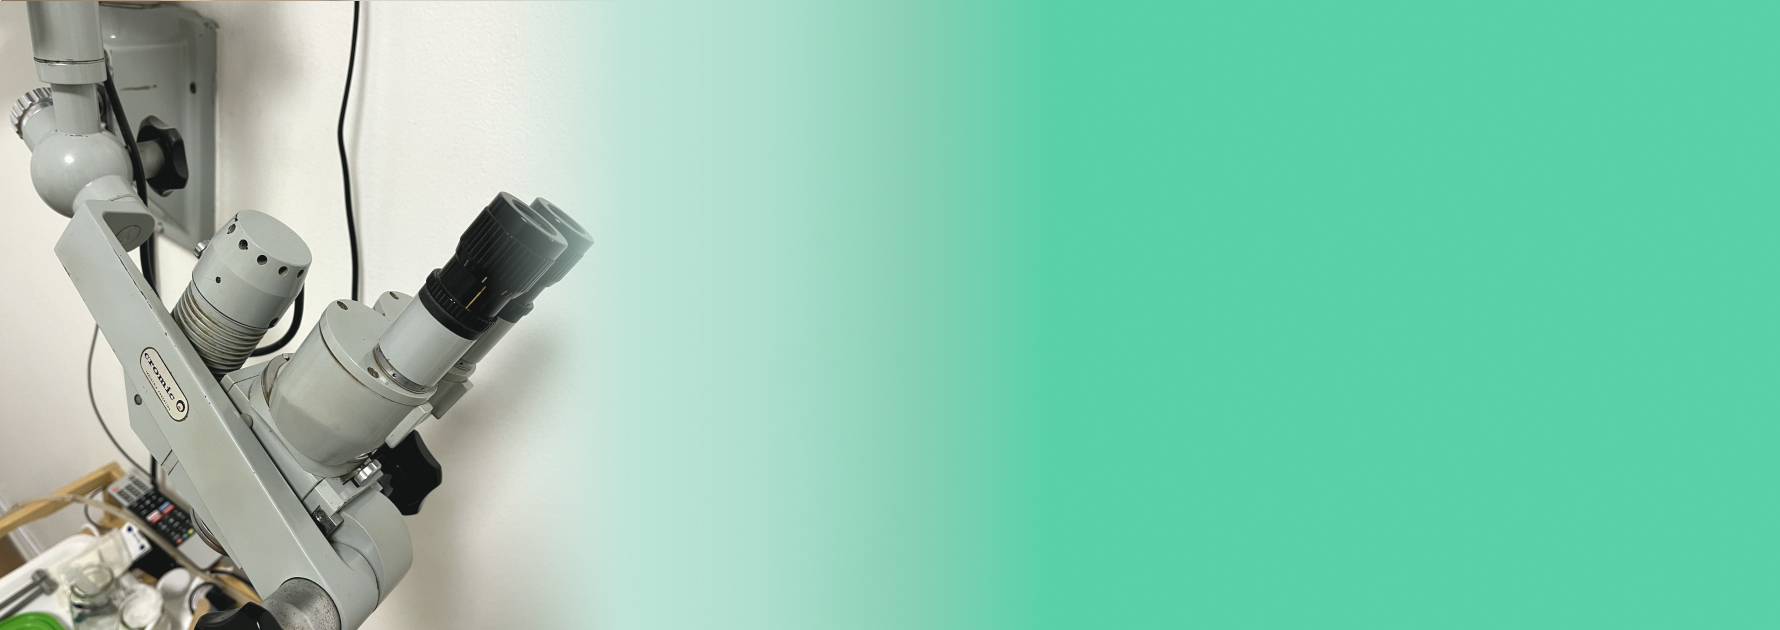
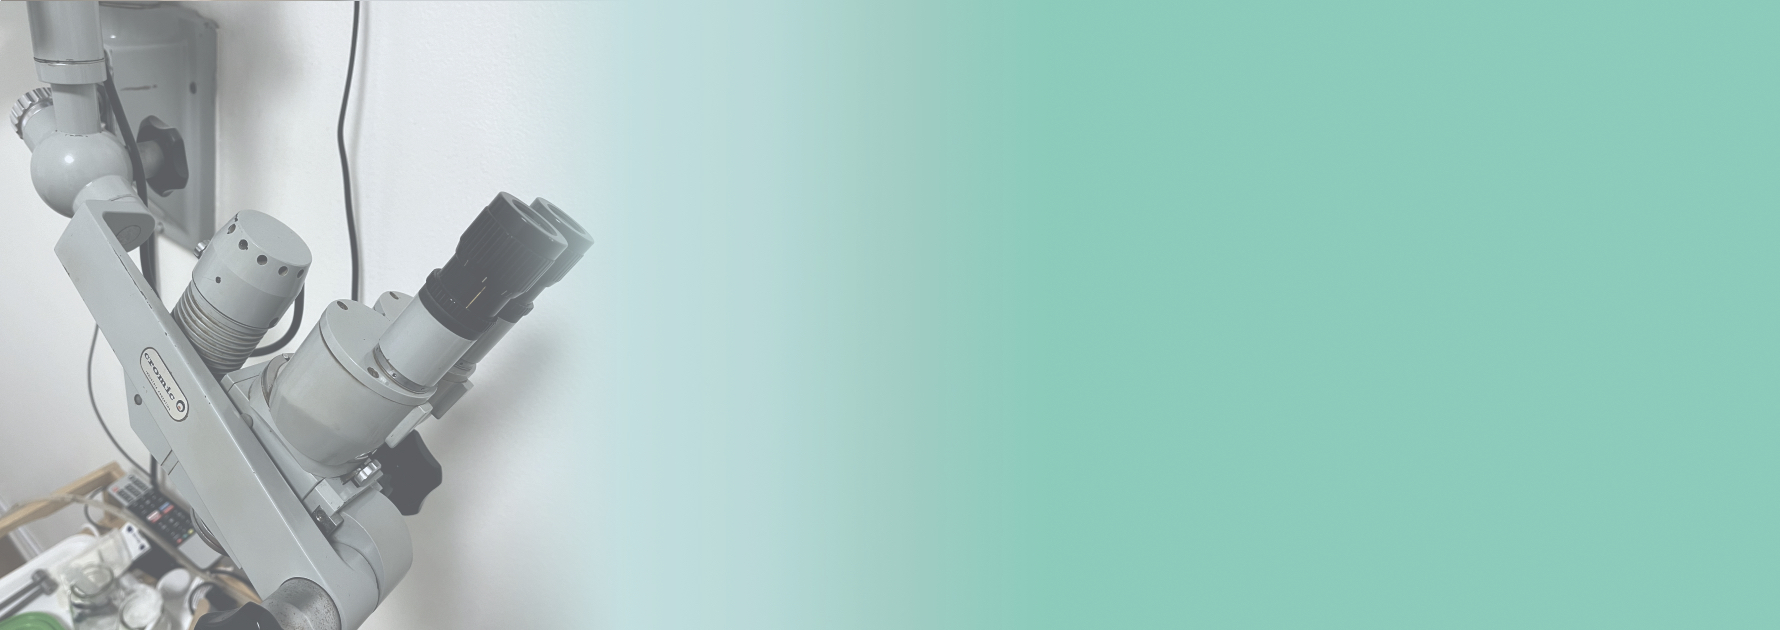
fifth commit

diff --git a/index.html b/index.html
@@ -16,11 +16,12 @@
     <link
     href="https://fonts.googleapis.com/css2?family=Poppins:ital,wght@0,200;0,300;0,400;0,500;1,100&display=swap"
     rel="stylesheet"
-  />
+     />
     <link
     rel="stylesheet"
     href="https://unpkg.com/swiper/swiper-bundle.min.css"
     />
+    <link rel="stylesheet" href="https://cdnjs.cloudflare.com/ajax/libs/font-awesome/4.7.0/css/font-awesome.min.css">
     <style type="text/css" media="screen, print">
         @font-face {
             font-family: "Bauhaus 93";
@@ -75,7 +76,7 @@
             </a>
           
 
-            <nav class="text__nav--home">        
+            <nav class="text__nav--home" id="menuDropdown">        
               
                  <div>           
                     <a href="#main" class="link__color--Scroll" >Home</a>
@@ -91,31 +92,25 @@
                 <div> 
                     <a href="#contact" class="link__color--Scroll">Contacto</a>    
                 </div> 
+               
             </nav>
-       
-         <!--   <div class="menu" id="menuResponsive">
-                <ul class="active">
-                    <li class="current-item"><a href="#main" class="link__color--Scroll" >Home</a></li>
-                    <li> <a href="#nosotros" class="link__color--Scroll">Nosotros</a></li>
-                    <li><a href="#work" class="link__color--Scroll">Estudios y Cirujias</a></li>
-                    <li><a href="#contact" class="link__color--Scroll">Contacto</a>   </li>
-                </ul>
+            <a class="menuResponsive" id="menu">&#9776;</a>
             
-                <a class="toggle-nav" href="#">&#9776;</a>
-            </div>-->
+            
+
             
         </header>
         
             <div class="whatsApp">
-                <a  title="WhatsApp, Public domain, via Wikimedia Commons" target="_blank" href="https://wa.me/1123906123/?text=Escribenos%20para%20consultas"><img  alt="WhatsApp" src="https://upload.wikimedia.org/wikipedia/commons/thumb/6/6b/WhatsApp.svg/512px-WhatsApp.svg.png"></a>
+                <a  title="WhatsApp, Public domain, via Wikimedia Commons" target="_blank" href="https://wa.me/1151074885/?text=Escribenos%20para%20consultas"><img  alt="WhatsApp" src="https://upload.wikimedia.org/wikipedia/commons/thumb/6/6b/WhatsApp.svg/512px-WhatsApp.svg.png"></a>
             </div>
             <section class="main link_color" id="Home">
                <!--  <div class="container__img">
                    
                    <img class="main--img" src="img/CONSULTORIO/home.jpg">
                  </div> -->
-               <!--   <div class="container__text"> -->
-               <!--  <div class="container__text--center ">-->
+           <div class="container__text"> 
+             <div class="container__text--center ">
                     <svg width="380" height="207" viewBox="0 0 280 107" fill="none" xmlns="http://www.w3.org/2000/svg">
                         <path d="M35.1542 65C22.1679 64.8976 12.0394 59.9645 5.12799 49.3651C-3.3705 36.345 -1.10781 20.5808 10.4469 9.4692C20.8971 -0.574862 38.1622 -3.02253 51.052 4.02934C62.1242 10.1054 68.6978 19.4216 68.9927 32.3608C69.2876 45.3 60.5961 57.6031 48.3979 62.4176C45.9789 63.4021 43.4625 64.125 40.8914 64.5741C38.8646 64.8922 36.7789 64.8814 35.1542 65Z" fill="#307172"/>
                         <path d="M136.077 47.9807C136.077 43.2247 136.149 38.4686 136.044 33.718C135.999 31.7895 136.759 30.9614 138.656 31.0213C140.082 31.0649 141.507 31.0921 142.932 31.1739C143.393 31.1739 144.164 31.2447 144.264 31.4844C145.251 33.9959 146.709 32.514 148.146 32.0728C150.886 31.2447 153.759 31.1521 156.604 31.0595C159.699 30.9614 162.794 31.0104 165.889 31.0268C167.059 31.0268 168.279 30.8688 168.595 32.5631C168.812 33.7126 169.705 33.0534 170.259 32.7864C171.888 31.9738 173.663 31.4815 175.484 31.3373C176.388 31.2883 177.702 30.7271 177.946 32.3288C178.135 33.5219 177.869 34.4481 176.454 34.824C175.628 35.0959 174.844 35.4791 174.125 35.9626C170.481 38.169 168.551 41.4105 168.495 45.6054C168.423 51.2167 168.407 56.8281 168.495 62.4394C168.523 64.368 167.852 65 165.883 65C159.821 65 159.815 65.0653 159.815 59.0999C159.815 51.6961 159.766 44.2924 159.871 36.8887C159.904 34.9329 159.161 34.3173 157.297 34.2519C155.691 34.1727 154.084 34.4126 152.574 34.9573C151.064 35.502 149.681 36.3403 148.508 37.4221C147.335 38.5039 146.396 39.8069 145.748 41.2533C145.1 42.6996 144.755 44.2595 144.735 45.8396C144.657 51.3747 144.657 56.9098 144.735 62.4449C144.774 64.3952 144.069 65.0217 142.106 64.9836C134.679 64.842 136.166 65.3813 136.049 58.9909C135.977 55.3299 136.049 51.6635 136.049 48.0025L136.077 47.9807Z" fill="#307172"/>
@@ -143,11 +138,11 @@
                         <path d="M104.535 98.9966C102.096 99.0527 101.633 98.4359 102.242 95.8119C102.563 94.427 102.921 93.059 103.247 91.6797C103.328 91.3713 103.413 91.0517 103.75 91.0069C104.213 90.9452 104.344 91.3096 104.444 91.7077C104.917 93.5411 105.45 95.3578 105.848 97.208C106.205 98.7555 105.998 98.9573 104.535 98.9966Z" fill="#89D0B6"/>
                         <path d="M187.897 20C188.603 21.0949 190.125 21.686 189.992 23.3258C189.83 25.3151 188.638 26.7955 186.572 26.9857C184.651 27.1656 182.388 25.6235 182.035 23.9015C181.734 22.4057 183.407 20.4832 185.42 20.1285C186.239 20.0329 187.065 19.9917 187.891 20.0051L187.897 20Z" fill="#307172"/>
                     </svg>
-                    <!--          
-                    <h3>Lorem ipsum dolor sit amet consectetur adipisicing elit. Velit, consequuntur sapiente odit reprehenderit error dignissimos commodi necessitatibus tenetur iste eos obcaecati, a quaerat distinctio, omnis aspernatur quisquam delectus vel repellendus.</h3>
-                    -->    
-               <!--  </div>    -->      
-              <!--    </div>    -->       
+                            
+                    <h3>Somos un centro médico especializado donde nuestro objetivo es brindar una atención de excelencia, con una amplia opción de turnos a cargo de especialistas altamente capacitados y de experiencia.</h3>
+                       
+              </div>         
+            </div>         
             </section>
         <a name="about" id="nosotros"></a>
             <section class="about" id="Nosotros">
@@ -509,7 +504,7 @@
                                     </svg>
                                     
                             </div>                 
-                            <p>Reconstruccion de perforacion ........</p>
+                            <p>Reconstruccion de perforacion timpanica</p>
                         </div>                                
                     </div>
                 </div>
@@ -569,7 +564,7 @@
                                 
                                 <div class="text__nav--texto">
                                     <p>Whatsapp</p>
-                                    <p>+(123) 555-0104-891 <br> +(123) 555-0104-891</p>
+                                    <p>11 5107-4885</p>
                                 </div>
                                 
                             </div>  
@@ -581,7 +576,7 @@
                                 
                                         <div class="text__nav--texto">
                                             <p>Turnos</p>
-                                            <p>Mon-Fri: 9:00AM-10:00PM <br> Sat-Sun: 9:00AM-01:00PM1</p>      
+                                            <p>perezalisedogambiniorl@gmail.com</p>      
                                         </div>
                                 
                                 </div>  
@@ -593,7 +588,7 @@
                                 </svg>
                             
                                     <div class="text__nav--texto">
-                                        <p>Tambien atendermos en Zarate  <br> Direccion y Whatsapp</p>
+                                        <p>Tambien atendemos en Zarate  <br> .Bolivar 1084 Bis <br> .3487 66-2444</p>
                                     </div>
                                 
                             </div> 
@@ -616,7 +611,7 @@
                         <path d="M19.9202 24.3842C19.005 24.3842 18.0603 24.1776 17.0714 23.7495C16.1414 23.351 15.2115 22.8196 14.3111 22.1554C13.4254 21.5059 12.5546 20.7678 11.7576 19.9708C10.9605 19.1589 10.2224 18.3028 9.57289 17.4171C8.90865 16.4872 8.37726 15.572 7.99348 14.6716C7.58017 13.6974 7.37354 12.7379 7.37354 11.8228C7.37354 11.1733 7.49159 10.5533 7.713 9.97767C7.94918 9.37247 8.33297 8.82631 8.83484 8.35396C9.77954 7.42403 11.1376 7.08456 12.2151 7.60119C12.5842 7.76356 12.8941 8.02925 13.1304 8.38351L14.8425 10.7895C15.0196 11.0257 15.1526 11.2766 15.2559 11.5275C15.374 11.8228 15.4478 12.118 15.4478 12.3985C15.4478 12.7822 15.3443 13.166 15.1377 13.5055C15.0048 13.7269 14.813 13.9926 14.562 14.2436L14.3701 14.4502C14.4587 14.5683 14.562 14.7159 14.7244 14.893C15.0344 15.2473 15.3739 15.6311 15.7429 16.0001C16.1119 16.3544 16.4809 16.7086 16.85 17.0186C17.0271 17.1662 17.1748 17.2843 17.2929 17.3581L17.4994 17.1514C17.7651 16.8857 18.031 16.6791 18.2967 16.5462C18.7838 16.2363 19.5364 16.1625 20.2007 16.4429C20.4368 16.5315 20.673 16.6643 20.9239 16.8415L23.3892 18.5832C23.7286 18.8194 23.9942 19.1442 24.1713 19.5132C24.3189 19.8822 24.3781 20.2069 24.3781 20.5464C24.3781 20.9893 24.2747 21.4173 24.0828 21.8306C23.8909 22.2144 23.6695 22.5539 23.4038 22.8639C22.9314 23.3805 22.3854 23.7643 21.795 24.0152C21.2045 24.2662 20.5697 24.3842 19.9202 24.3842ZM11.1375 9.59387C11.049 9.59387 10.7538 9.59387 10.3848 9.96289C10.1043 10.2286 9.91241 10.5091 9.77957 10.8191C9.64672 11.129 9.58766 11.4833 9.58766 11.8376C9.58766 12.4575 9.73526 13.1217 10.0305 13.8302C10.3404 14.5683 10.7981 15.3506 11.359 16.1329C11.9347 16.9153 12.5841 17.6976 13.3075 18.4209C14.0308 19.1294 14.7982 19.7936 15.5953 20.3841C16.3628 20.945 17.1453 21.3878 17.9276 21.7273C19.0495 22.2144 20.0826 22.3325 20.9239 21.9782C21.2192 21.8601 21.4849 21.6535 21.7505 21.3878C21.8834 21.2402 21.9869 21.0926 22.0754 20.9007C22.1197 20.7974 22.1491 20.6793 22.1491 20.576C22.1491 20.5464 22.1491 20.5021 22.1048 20.4136L19.6398 18.7013C19.5364 18.6275 19.4331 18.5685 19.3445 18.539C19.2855 18.5685 19.1971 18.6128 19.0347 18.7751L18.4738 19.336C18.0457 19.7641 17.3667 19.8822 16.8206 19.6903L16.5549 19.5722C16.2154 19.3951 15.8315 19.1294 15.4034 18.7604C14.9901 18.4061 14.5917 18.0371 14.1636 17.6238C13.7503 17.1957 13.3813 16.7972 13.027 16.3839C12.6432 15.9263 12.3775 15.5573 12.2004 15.2473L12.038 14.8635C11.9937 14.7159 11.9789 14.5535 11.9789 14.4059C11.9789 13.9926 12.1266 13.6236 12.407 13.3284L12.968 12.7527C13.1304 12.5903 13.1894 12.5018 13.2189 12.4427C13.1746 12.3394 13.1156 12.2508 13.0418 12.1475L11.3147 9.71199L11.1375 9.59387Z" fill="white"/>
                     </svg>
                     <div class="footer__nav--texto">
-                        <p>healthcare@medical.com <br> healthcare@medical.com</p>
+                        <p>+(54) 9 11 5107-4885</p>
                     </div>       
                 </div> 
                 <div class="footer__nav">
@@ -624,7 +619,7 @@
                         <path d="M16.5 2.75C8.91825 2.75 2.75 8.91825 2.75 16.5C2.75 24.0817 8.91825 30.25 16.5 30.25C24.0817 30.25 30.25 24.0817 30.25 16.5C30.25 8.91825 24.0817 2.75 16.5 2.75ZM21.0279 22.9721L15.125 17.0692V8.25H17.875V15.9307L22.9721 21.0279L21.0279 22.9721Z" fill="white"/>
                     </svg>
                     <div class="footer__nav--texto">
-                        <p>healthcare@medical.com <br> healthcare@medical.com</p>
+                        <p>Lunes-Viernes: 8:00AM-8:00PM</p>
                     </div>       
                 </div> 
                 <div class="footer__nav">
@@ -632,7 +627,7 @@
                         <path d="M20.8333 4.1665H4.16659C3.02075 4.1665 2.09367 5.104 2.09367 6.24984L2.08325 18.7498C2.08325 19.8957 3.02075 20.8332 4.16659 20.8332H20.8333C21.9791 20.8332 22.9166 19.8957 22.9166 18.7498V6.24984C22.9166 5.104 21.9791 4.1665 20.8333 4.1665ZM20.8333 8.33317L12.4999 13.5415L4.16659 8.33317V6.24984L12.4999 11.4582L20.8333 6.24984V8.33317Z" fill="white"/>
                     </svg>
                     <div class="footer__nav--texto">
-                        <p>healthcare@medical.com <br> healthcare@medical.com</p>
+                        <p>perezalisedogambiniorl@gmail.com</p>
                     </div>       
                 </div> 
             </div>

diff --git a/style2.css b/style2.css
@@ -33,6 +33,7 @@ a{
     position: sticky;
     top: 85vh;
     left: 90vw;
+    z-index: 100;
 }
 
 
@@ -136,6 +137,9 @@ nav a{
     display: none;
 }
 
+.menuResponsive{
+    display: none;
+}
 
 /*------------------Main---------------------------*/
 
@@ -176,22 +180,23 @@ nav a{
 
 .container__text--center{
    
-   /* display: flex;
+    display: flex;
     flex-direction: column;
     justify-content: center;
-    align-items: center;*/
+    align-items: center;
     
 }
 
 .container__text--center h3{
-  /*  margin-bottom: 30%;
+    margin-bottom: 30%;
+    transform: translateX(24vw);
     margin-top: 5vh;
     max-width: 30rem;
     text-align: center;
     font-family: 'Roboto';
     color: white;
     font-size:  .9rem;
-    line-height: 1.8rem;*/
+    line-height: 1.8rem;
 }
 
 
@@ -736,25 +741,65 @@ footer {
         margin-right: 0rem;
     }
     
-    .text__nav--home{
-        display: flex;
+    /*.text__nav--home{
+        display: none;
         width: 40vw;
         flex-direction: column;
         margin: 1vw;
         font-size: 3vw;
         margin-right: 0vw;
+    }*/
+
+    .text__nav--home{
+        display: none;
     }
 
+     .text__nav--home.active{
+        display: inline;
+        position: absolute;
+        width: max-content;
+        flex-direction: column;
+        margin: 0vw;
+        font-size: 5vw;
+        margin-top: 24vh;
+        margin-left: 25vw;
+        animation-name: dropDown;
+        animation-timing-function: ease-in;
+        animation-duration: .5s;
+        background-color: #58D0A7;
+        opacity: .9;
+    }
+
+
+    .menuResponsive{
+        display: block;
+        font-size: 3rem;
+        text-align: center;
+         color: white;
+    }
+
+    .menuResponsive.active{
+        color: black;
+    }
+
+    @keyframes dropDown {
+        from {opacity:0}
+        to {opacity:.8}
+      }
 
 
 /*-----home----*/    
 
-    .main{
-        margin-top: 2vh;
-        background-image: url("img/CONSULTORIO/home.jpg");
+
+
+
+
+   .main{
+        margin-top: 0vh;
+        background-image: url("img/CONSULTORIO/home-responsive.jpg");
         background-size: cover;
-        opacity: .6;
-        height: 65vh;
+
+        height: 75vh;
         width: 100vw;
         display: flex;
         flex-direction: row;
@@ -766,6 +811,17 @@ footer {
         margin-left: 0vw;
         width: 80%;
     }
+
+
+    .container__text--center h3{
+        
+        transform: translateX(2.2vw);
+  
+        color:white;
+        font-weight: bold;
+    
+    }
+    
 
 /*------------------Footer---------------------------*/
 
@@ -848,6 +904,22 @@ footer {
 
 .consultas--center{
   transform: translateY(-10vh);
+  margin-left: 5vw;
+  width: 90vw;
+}
+
+.consultas--list{
+    width: 100%;
+}
+
+.consultas--list__container{
+    width: 100%;
+    font-size: .5rem;
+}
+
+.consultas--list__container--green{
+    padding-right: 2vw;
+    padding-left: 2vw;
 }
 
 /*------------------My work---------------------------*/

diff --git a/main.js b/main.js
@@ -1,16 +1,21 @@
 const linksColor = document.querySelectorAll(".link__color--Scroll");
 const sections = document.querySelectorAll("section");
-//const menu = document.getElementById("menuResponsive");
-
+const menu = document.getElementById("menu");
+const menuDrop = document.getElementById("menuDropdown");
 
 let isMenuShow = false;
 
 
-/*menu.addEventListener('click', (e)=> {
-  let navBar = document.querySelector("active");
-  navBar.style.display="block";
+menu.addEventListener('click', (e)=> {
+  if(menuDrop.className==='text__nav--home'){
+    menuDrop.className += " active";
+    menu.className += " active";
+  }else {
+    menuDrop.className ="text__nav--home";
+    menu.className = "menuResponsive";
+  }
   e.preventDefault();
-});*/
+});
 
 
 
